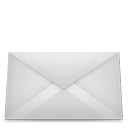
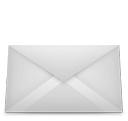
Created mobile css media queries targeting Droid X and iPhone

diff --git a/app/public/styles/layout.css b/app/public/styles/layout.css
@@ -7,8 +7,8 @@ html, body {
 body {
   min-height: 100%;
   background-color: #fff;
-  background-image: -webkit-gradient(linear, 0% 0%, 0% 100%, from(#fff), color-stop(0.7, #fff), color-stop(0.9, #eee), to(#ccc));
-  background-image: -moz-linear-gradient(center top, #fff 0%, #eee 90%, #ccc 100%);
+  background-image: -webkit-radial-gradient(center top, circle cover, #fff, #fff 25%, #eee 60%, #bbb);
+  background-image: -moz-radial-gradient(center top, circle cover, #fff, #fff 25%, #eee 60%, #bbb);
   color: #594F4F;
   font-family: 'Francois One', arial, sans-serif;
 }
@@ -24,7 +24,7 @@ h1 {
   font-weight: normal;
   position: relative;
   top: 0.29em;
-  padding: 0.1em;
+  padding: 0.1em 0;
   color: #FE4365;
   font-family: 'Annie Use Your Telescope', arial, sans-serif;
 }
@@ -49,7 +49,7 @@ li {
 }
 
 .wrap {
-  width: 960px;
+  max-width: 960px;
   margin: 0 auto;
 }
 
@@ -62,8 +62,22 @@ header a:hover {
   text-decoration: underline;
 }
 
+#selection {
+  font-size: 2.0em;
+  padding: 2em;
+  text-align: center;
+}
+
+#selection select {
+  font-size: 0.8em;
+  background-color: #ddd;
+  border-radius: 8px;
+  position: relative;
+  top: -0.11em;
+}
+
 .contact_info {
-  padding: 1.8em;
+  padding: 1.8em 0;
   text-align: center;
   position: fixed;
   bottom: 1em;
@@ -87,31 +101,19 @@ header a:hover {
   display: inline-block;
   padding-top: 138px;
   min-width: 128px;
-  color: inherit;  
+  color: inherit;
+  background-position: top center;
+  background-repeat: no-repeat;
 }
 
 .contact_info .phone {
-  background: url('/images/phone.png') top center no-repeat;
+  background-image: url('/images/phone.png');
 }
 
 .contact_info .email {
-  background: url('/images/email.png') top center no-repeat;
+  background-image: url('/images/email.png');
 }
 
 .contact_info .twitter {
-  background: url('/images/twitter.png') top center no-repeat;
-}
-
-#selection {
-  font-size: 2.0em;
-  padding: 2em;
-  text-align: center;
-}
-
-#selection select {
-  font-size: 0.8em;
-  background-color: #ddd;
-  border-radius: 8px;
-  position: relative;
-  top: -0.11em;
+  background-image: url('/images/twitter.png');
 }

diff --git a/app/public/styles/layout-mobile.css b/app/public/styles/layout-mobile.css
@@ -1,0 +1,18 @@
+.contact_info {
+  position: static;
+  text-align: left;
+}
+
+.contact_info li {
+  font-size: 1.8em;
+  display: block;
+}
+
+.contact_info a {
+  padding-top: 0;
+  padding-left: 138px;
+  padding-top: 64px;
+  padding-bottom: 64px;
+  background-position: left top;
+  vertical-align: middle;
+}

diff --git a/server.js b/server.js
@@ -1,5 +1,5 @@
 var cluster = require('cluster'),
-    port    = 3100;
+    port    = 80;
 
 console.log("Opening server on port " + port + "...");
 
